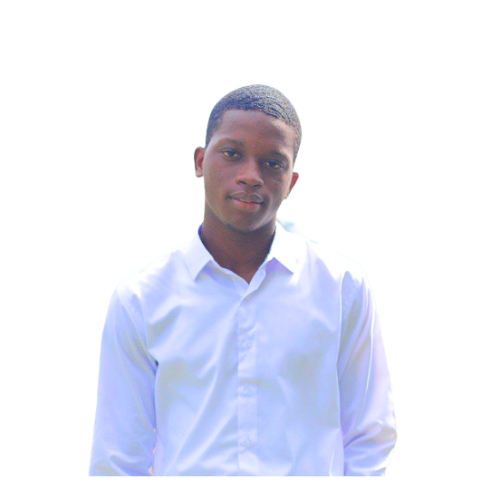
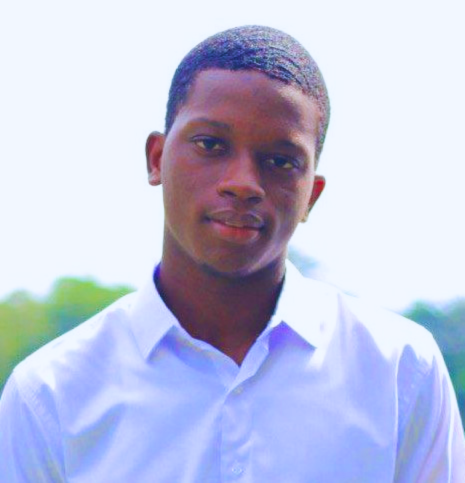
Added Avatart to the Header

diff --git a/src/app/components/Header.tsx b/src/app/components/Header.tsx
@@ -4,8 +4,9 @@ import Link from "next/link";
 import { useState } from "react";
 import { useEffect } from "react";
 
-import { heroGreeting } from "../portfolio";
+import { headerAvatar, heroGreeting } from "../portfolio";
 import { segwick } from "../fonts";
+import { AvatarIcon } from "@/components/HeaderAvatar";
 
 export default function Header() {
   const [isActive, setIsActive] = useState(false);
@@ -36,7 +37,10 @@ export default function Header() {
             <div className="flex gap-2 items-center md:gap-4">
               <Link className="text-gray-500 dark:text-white" href="">
                 <span className="sr-only">Okunola Abdulwasiu</span>
-                {/* AVATAR TO BE PLACED HERE */}
+                <AvatarIcon
+                  imgSrc={headerAvatar.image}
+                  fallback={headerAvatar.fallback}
+                />
               </Link>
               {/* <h1 className="text-gray-900 dark:text-white font-bold text-xl hidden md:block">
                 <Link href="/">{heroGreeting.username}</Link>

diff --git a/src/components/HeaderAvatar.tsx b/src/components/HeaderAvatar.tsx
@@ -1,6 +1,15 @@
 import { Avatar, AvatarFallback, AvatarImage } from "./ui/avatar";
 
-<Avatar>
-  <AvatarImage src="/images/okunola.png" />
-  <AvatarFallback>OA</AvatarFallback>
-</Avatar>;
+type Props = {
+  fallback: string;
+  imgSrc: string;
+};
+
+export function AvatarIcon({ imgSrc, fallback }: Props) {
+  return (
+    <Avatar>
+      <AvatarImage src={imgSrc} />
+      <AvatarFallback>{fallback}</AvatarFallback>
+    </Avatar>
+  );
+}

diff --git a/src/app/portfolio.ts b/src/app/portfolio.ts
@@ -2,6 +2,12 @@
 
 import emoji from "react-easy-emoji";
 
+// Header Avatar
+const headerAvatar = {
+  image: "/images/okunola.png",
+  fallback: "OA",
+};
+
 // Hero section
 
 const heroGreeting = {
@@ -142,6 +148,7 @@ const projectSection = {
 };
 
 export {
+  headerAvatar,
   heroGreeting,
   socialMediaLinks,
   skillsSection,
